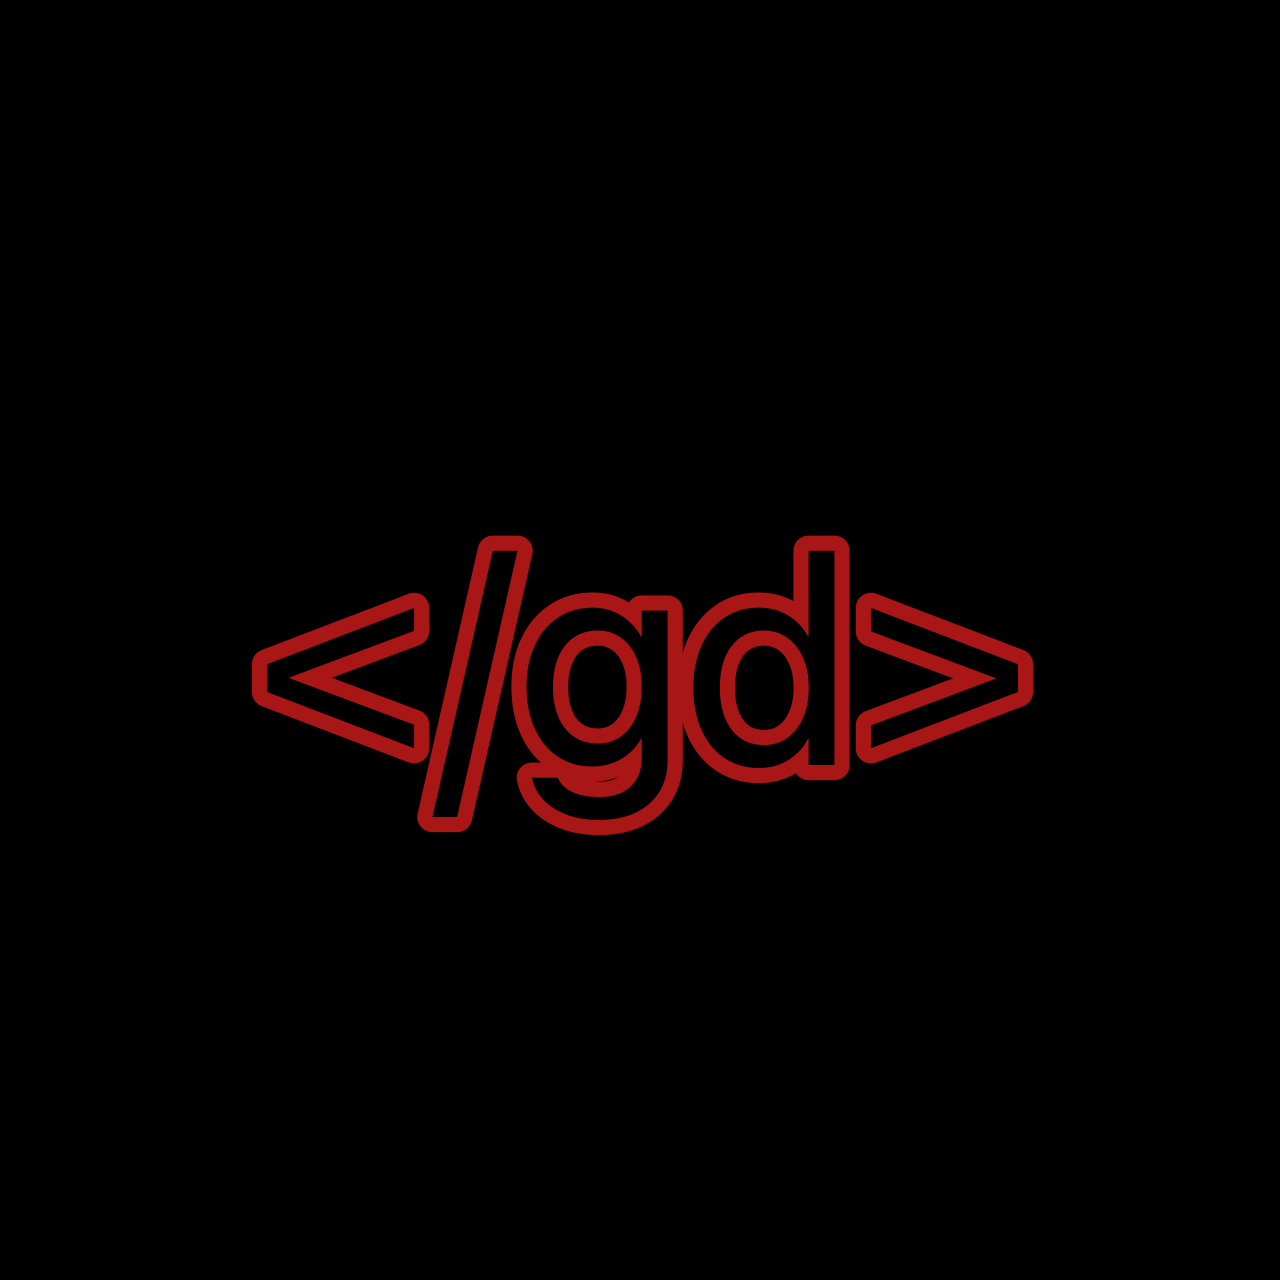
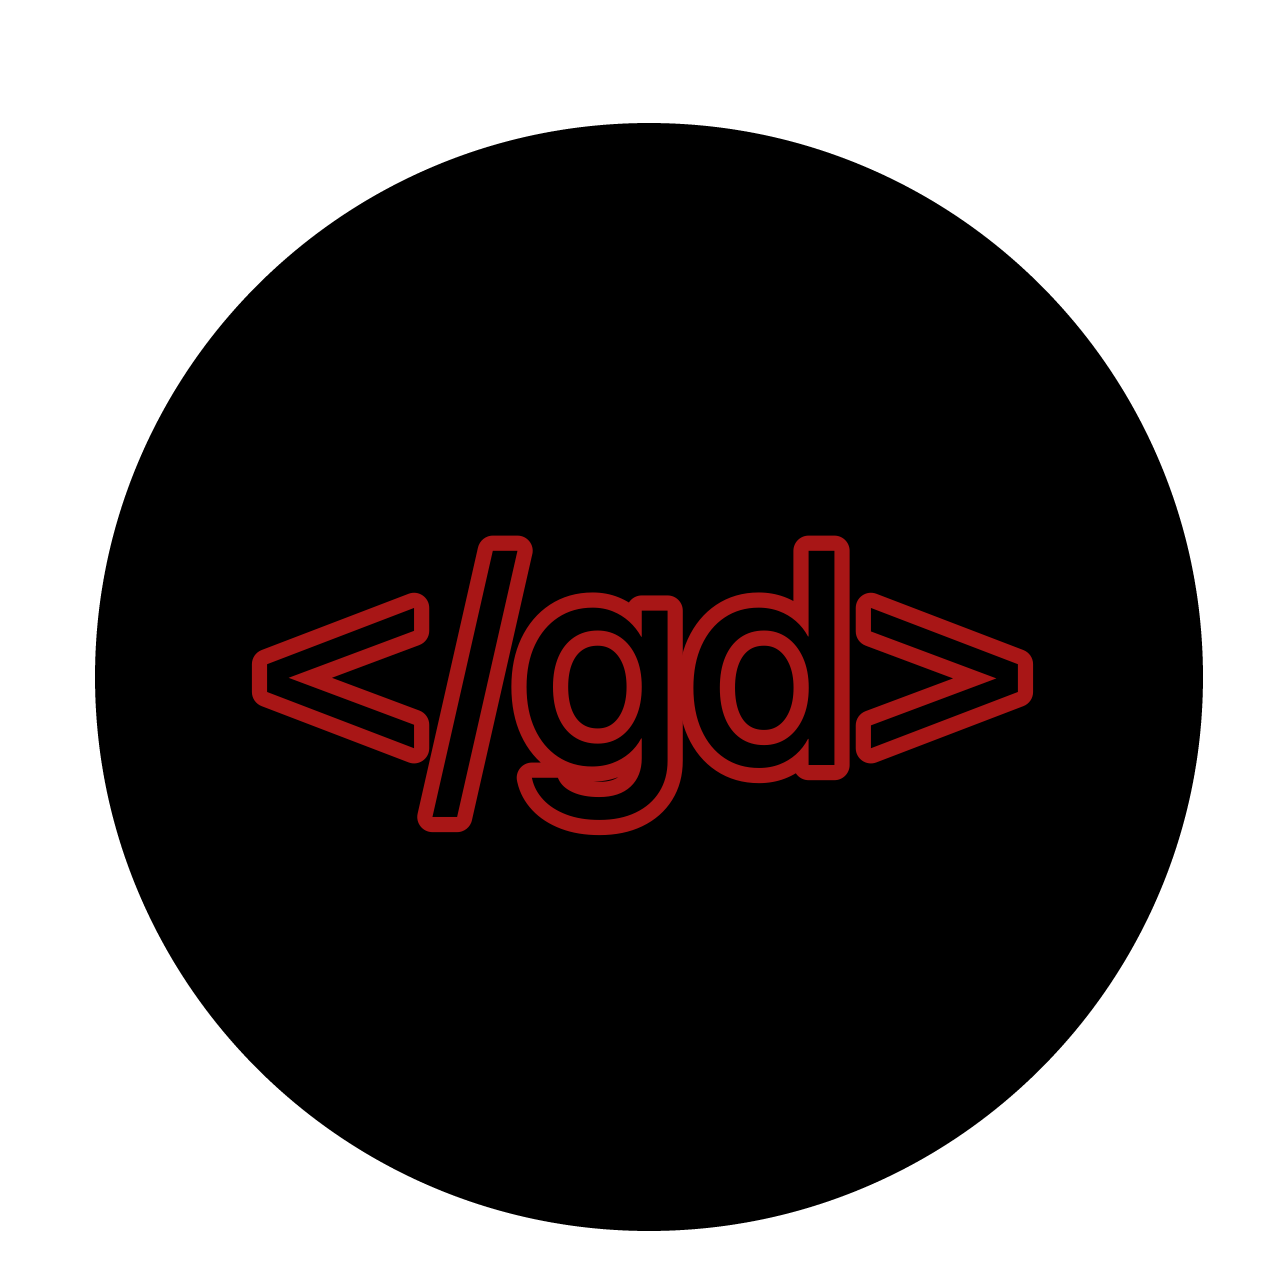
Replace intro img and move text accordingly

diff --git a/assests/css/main.css b/assests/css/main.css
@@ -12,7 +12,7 @@ body {
 }
 
 .mainImg {
-    height: 10em;
+    height: 20em;
     width: auto;
 }
 
@@ -58,12 +58,12 @@ header {
 
 .gitPicture {
     position: absolute;
-    top: 20em;
+    top: 15em;
 }
 
 .introText {
     position: absolute;
-    top: 30em;
+    top: 33em;
     text-align: center;
 }
 
